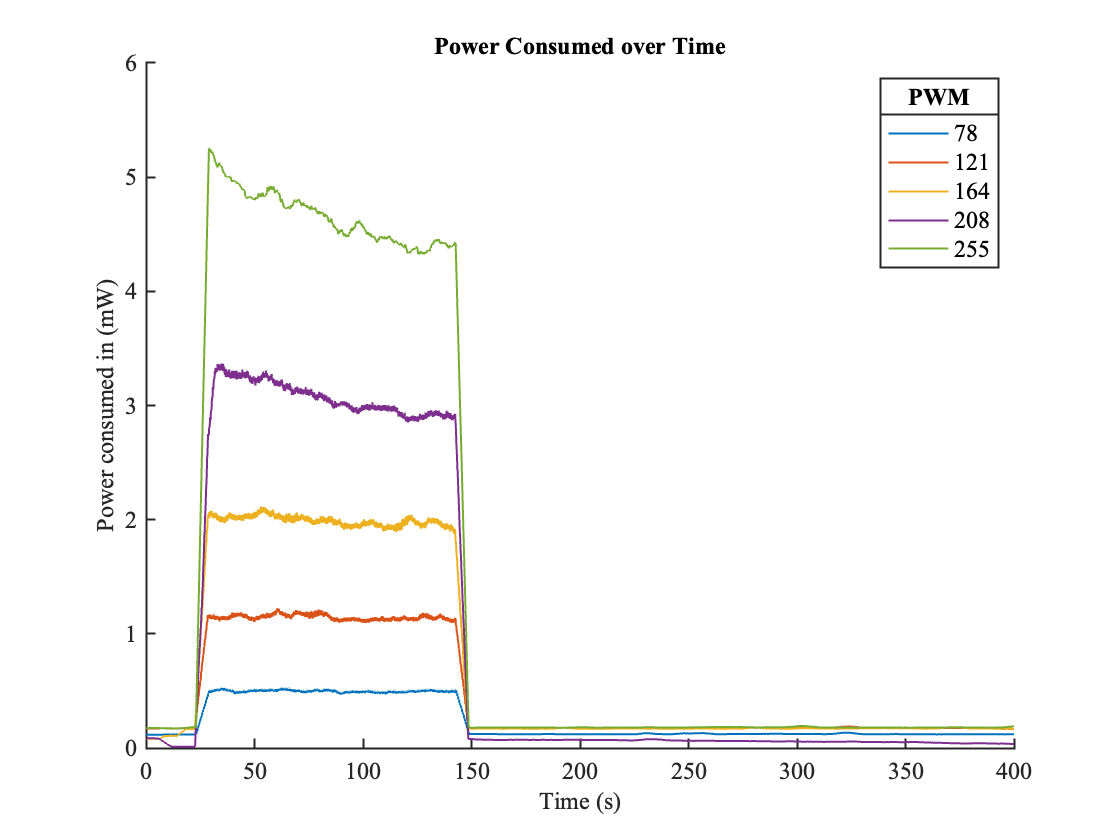
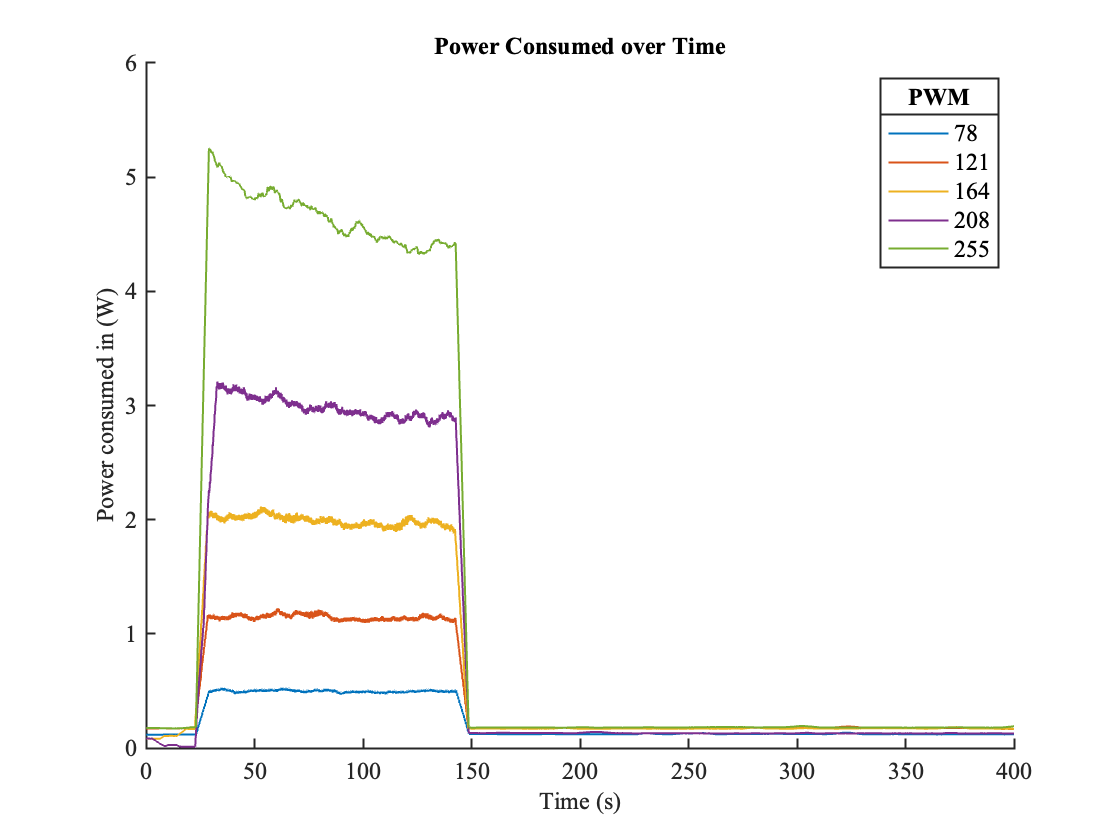
minor analysis updates

diff --git a/Dana Point/danapointlog.m b/Dana Point/danapointlog.m
@@ -163,7 +163,7 @@ hold on
 plot(t,movmean(power,60))
 xlim([0 400])
 xlabel("Time (s)")
-ylabel("Power consumed in (mW)")
+ylabel("Power consumed in (W)")
 title("Power Consumed over Time")
 hold off
 
@@ -184,14 +184,14 @@ totalpowersn =[5607.2,
 619.8581];
 %totalpowersn = [5495.4,  3837.4, 2283.7, 1245.6]
 hold on
-plot(pwms, totalpowers/1000, 'o')
-p = polyfit(pwmsn, totalpowersn, 2);
+plot(pwms, totalpowers/1000, 'bo')
+p = polyfit(pwmsn, totalpowersn/1000, 2);
 v = polyval(p, pwmsnew);
-plot(pwmsnew, v/1000,'--')
+plot(pwmsnew, v,'r--')
 ylim([0 6])
 xlim([50 255])
 xlabel("PWM")
-ylabel("Total Power consumed in 120 secs(mW)")
+ylabel("Total Power consumed in 120 secs (kW)")
 title("Total Power Consumed vs PWM")
 hold off
 

diff --git a/Dana Point/analysis.m b/Dana Point/analysis.m
@@ -1,17 +1,15 @@
 %Aabhas Senapati
 %E80 Data Analysis Code
 
-danapointlog('019')
-danapointlog('013')
-danapointlog('020')
-danapointlog('022')
-danapointlog('024')
+% danapointlog('019')
+% danapointlog('013')
+% danapointlog('020')
+% danapointlog('022')
+% danapointlog('024')
 % danapointlog('001')
 
-
-% danapointlog('005')
-% %danapointlog('018')
-% danapointlog('007')
-% danapointlog('010')
-% danapointlog('012')
-
+danapointlog('012')
+danapointlog('010')
+danapointlog('007')
+danapointlog('013')
+danapointlog('005')
